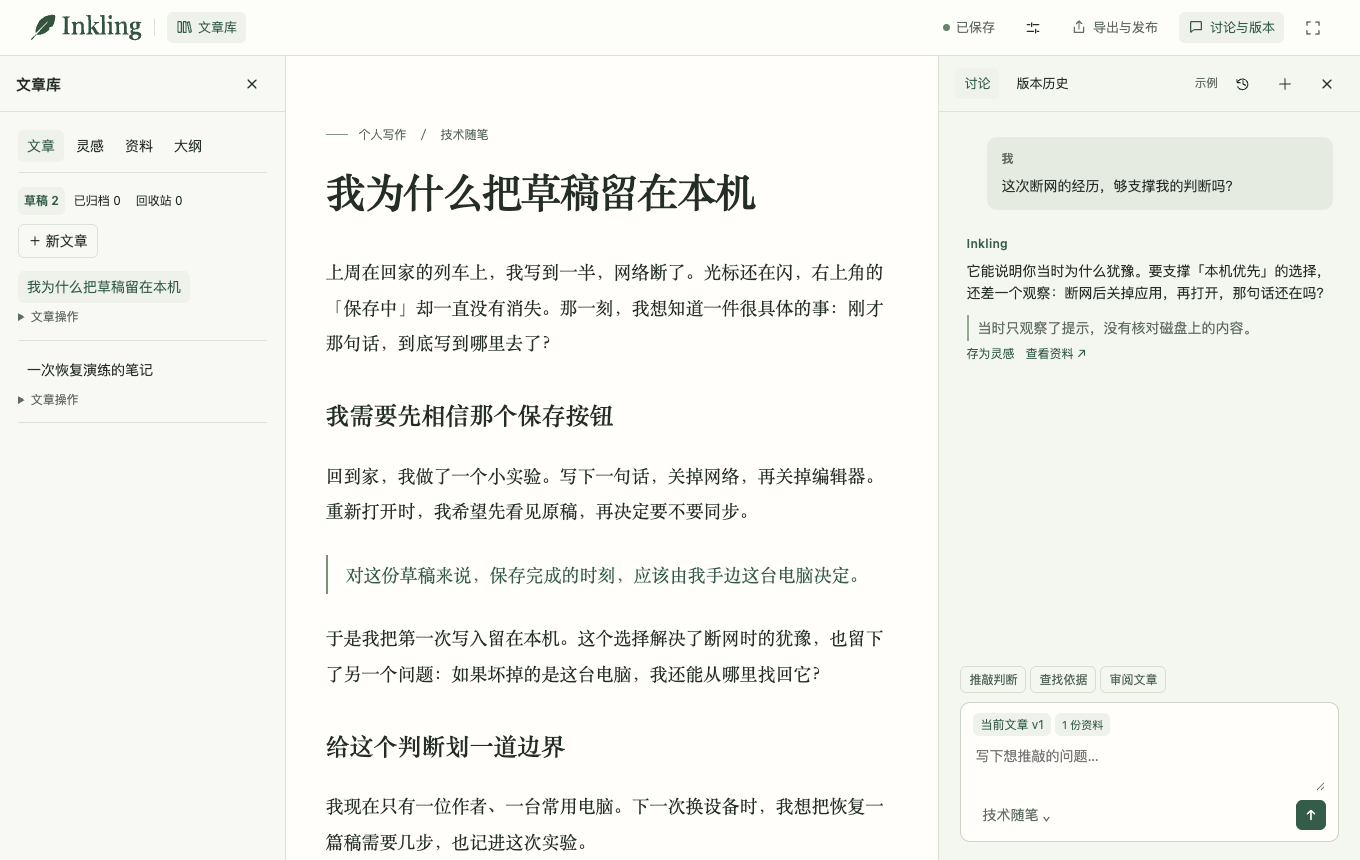
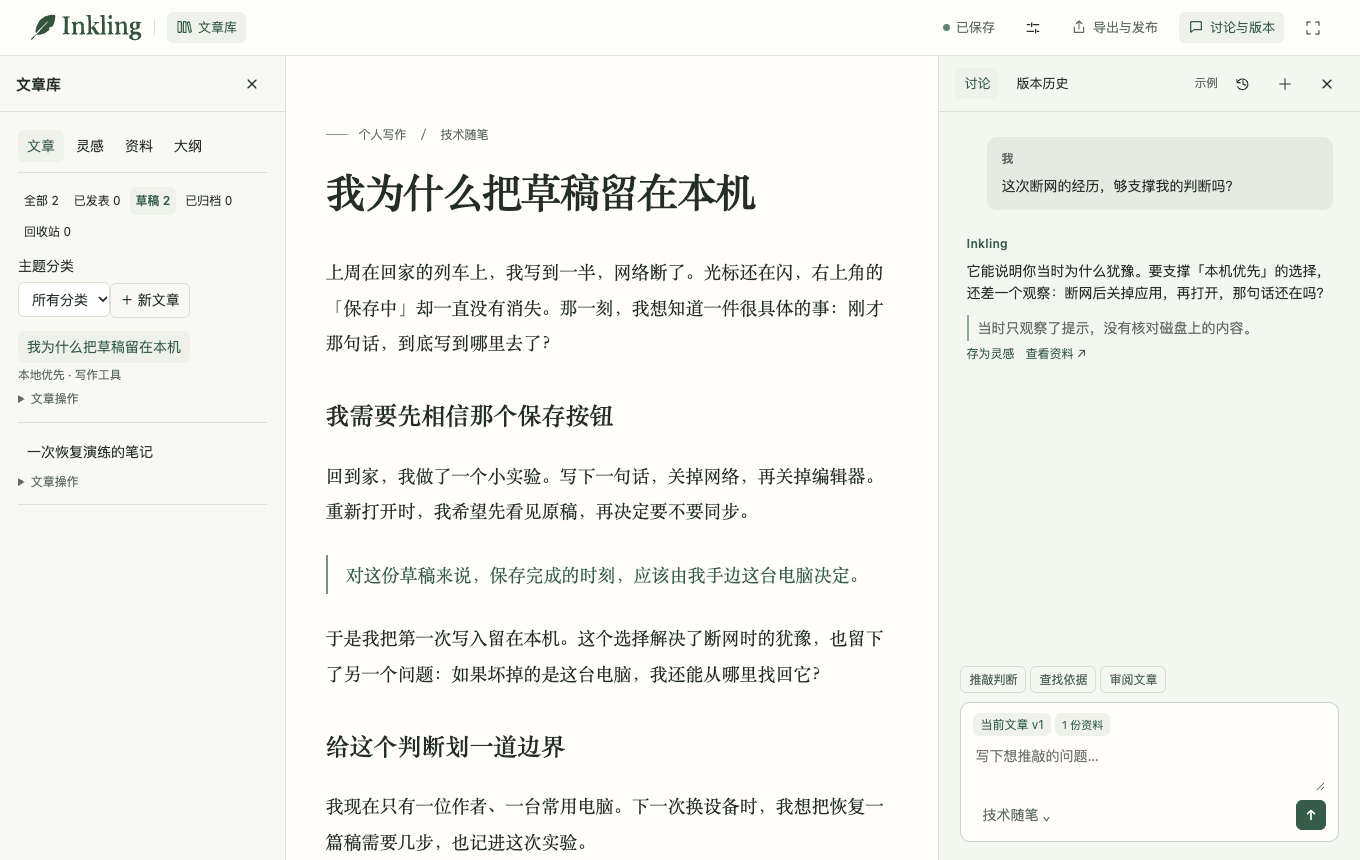
design: organize articles by topic, publication and writing intent

Changed region(s): [[0.0, 0.2116, 0.1544, 0.4837], [0.0618, 0.2116, 0.1853, 0.2419], [0.0309, 0.514, 0.1235, 0.5744]]

diff --git a/docs/prototypes/inkling-writing-desk-v3.html b/docs/prototypes/inkling-writing-desk-v3.html
@@ -894,6 +894,7 @@
           rev: 1,
           style: '技术随笔',
           status: 'active',
+          topics: [],
           attached: [],
           versions: [],
           chats: [discussion()],
@@ -928,6 +929,7 @@
           title: '列车上的断网记录',
           text: '作者笔记 · 断网后界面持续显示「保存中」。当时只观察了提示，没有核对磁盘上的内容。',
         };
+        a.topics = ['本地优先', '写作工具'];
         a.attached = [source.id];
         a.chats = [
           discussion([
@@ -969,6 +971,7 @@
         findBlock = (key) => a().blocks.find((x) => x.id === key);
       let tab = '文章',
         folder = a().status,
+        topic = '',
         shelfResult = '',
         selected = null,
         toolTarget = null,
@@ -1030,6 +1033,10 @@
           '[data-do="open"][data-key="' + a().id + '"]',
         );
         if (entry) entry.textContent = a().title || '未命名文章';
+        const summary = $('libraryBody').querySelector(
+          '[data-summary="' + a().id + '"]',
+        );
+        if (summary) summary.textContent = articleSummary(a());
         $('genre').textContent = a().style;
         $('stylechip').textContent = a().style + ' ⌄';
         $('count').textContent = n + ' 字';
@@ -1056,12 +1063,17 @@
             title = esc(art.title || '未命名文章');
           $('shelfSheet').innerHTML =
             '<div class="crumb"><i></i>' +
-            (archived ? '已归档 · 只读' : '回收站') +
+            (archived
+              ? art.parked
+                ? '已搁置 · 只读'
+                : '已归档 · 只读'
+              : '回收站') +
             '</div><h1>' +
             title +
             '</h1>' +
             (archived
-              ? btn('archive', '移回草稿，继续编辑', art.id) +
+              ? (art.parked ? '<p>搁置原因：' + esc(art.parked) + '</p>' : '') +
+                btn('archive', '移回草稿，继续编辑', art.id) +
                 '<hr>' +
                 art.blocks
                   .map(
@@ -1475,6 +1487,22 @@
         )
           closePanel();
       });
+      function articleSummary(x) {
+        const publication = x.published
+          ? '已发表 v' +
+            x.published +
+            (x.rev !== x.published ? ' · 有本地修改' : '')
+          : '';
+        return [...(x.topics || []), publication, x.parked ? '已搁置' : '']
+          .filter(Boolean)
+          .join(' · ');
+      }
+      function inCollection(x, view) {
+        if (view === 'all') return x.status !== 'trash';
+        if (view === 'published')
+          return x.status !== 'trash' && x.published != null;
+        return x.status === view;
+      }
       function library(next = tab, highlight = '') {
         tab = next;
         const tabs =
@@ -1490,6 +1518,8 @@
           '</nav>';
         if (tab === '文章') {
           const shelves = {
+            all: '全部',
+            published: '已发表',
             active: '草稿',
             archived: '已归档',
             trash: '回收站',
@@ -1506,18 +1536,44 @@
                   '">' +
                   label +
                   ' ' +
-                  store.articles.filter((x) => x.status === value).length +
+                  store.articles.filter(
+                    (x) =>
+                      inCollection(x, value) &&
+                      (!topic || x.topics?.includes(topic)),
+                  ).length +
                   '</button>',
               )
               .join('') +
             '</nav>';
+          const topics = [
+            ...new Set(store.articles.flatMap((x) => x.topics || [])),
+          ].sort((x, y) => x.localeCompare(y, 'zh-CN'));
+          html +=
+            '<label for="topicFilter">主题分类</label><select id="topicFilter"><option value="">所有分类</option>' +
+            topics
+              .map(
+                (t) =>
+                  '<option value="' +
+                  esc(t) +
+                  '" ' +
+                  (t === topic ? 'selected' : '') +
+                  '>' +
+                  esc(t) +
+                  '</option>',
+              )
+              .join('') +
+            '</select>';
           if (shelfResult)
             html +=
               '<p class="shelf-result" role="status">' +
               esc(shelfResult) +
               '</p>';
-          if (folder === 'active') html += btn('create', '＋ 新文章');
-          const list = store.articles.filter((x) => x.status === folder);
+          if (folder === 'all' || folder === 'active')
+            html += btn('create', '＋ 新文章');
+          const list = store.articles.filter(
+            (x) =>
+              inCollection(x, folder) && (!topic || x.topics?.includes(topic)),
+          );
           for (const x of list) {
             html +=
               '<div class="item"><div class="row">' +
@@ -1538,16 +1594,26 @@
                 'text-btn',
               );
             } else {
-              if (folder === 'archived')
+              html +=
+                '<div><small data-summary="' +
+                x.id +
+                '">' +
+                esc(articleSummary(x)) +
+                '</small></div>';
+              if (x.status === 'archived')
                 html +=
                   '<small>只读 · ' + x.versions.length + ' 个版本</small>';
               html +=
                 '<details><summary>文章操作</summary><div class="actions">' +
                 btn(
                   'archive',
-                  folder === 'active' ? '归档留存' : '移回草稿',
+                  x.status === 'active' ? '归档留存' : '移回草稿',
                   x.id,
                 ) +
+                (x.status === 'active'
+                  ? btn('park', '暂时搁置', x.id) +
+                    btn('topics', '设置分类', x.id)
+                  : '') +
                 btn('trash', '移入回收站', x.id) +
                 '</div></details>';
             }
@@ -1556,11 +1622,15 @@
           if (!list.length)
             html +=
               '<p class="muted">' +
-              {
-                active: '还没有草稿。',
-                archived: '归档的文章会保留在这里，供以后查阅。',
-                trash: '回收站是空的。',
-              }[folder] +
+              (topic
+                ? '当前视图没有这个分类的文章。'
+                : {
+                    all: '还没有文章。',
+                    published: '还没有已发表的文章。',
+                    active: '还没有草稿。',
+                    archived: '归档的文章会保留在这里，供以后查阅。',
+                    trash: '回收站是空的。',
+                  }[folder]) +
               '</p>';
         } else if (tab === '灵感') {
           html +=
@@ -1657,6 +1727,7 @@
           x.beforeTrash = x.status;
           x.status = 'trash';
         } else x.status = x.status === 'archived' ? 'active' : 'archived';
+        if (x.status === 'active') delete x.parked;
         folder = x.status;
         shelfResult =
           '「' +
@@ -1823,6 +1894,12 @@
       }
       document.addEventListener('change', (e) => {
         const el = e.target;
+        if (el.id === 'topicFilter') {
+          topic = el.value;
+          shelfResult = '';
+          library('文章');
+          return;
+        }
         if (el.dataset.src) {
           const key = el.dataset.src;
           a().attached = el.checked
@@ -1882,6 +1959,7 @@
             break;
           case 'create': {
             folder = 'active';
+            topic = '';
             shelfResult = '';
             const x = article('未命名文章', [block()]);
             store.articles.unshift(x);
@@ -1892,6 +1970,49 @@
           case 'open':
             switchTo(store.articles.find((x) => x.id === key));
             break;
+          case 'topics': {
+            const x = store.articles.find((x) => x.id === key);
+            panel(
+              'topics',
+              '设置主题分类',
+              '<label for="topicsInput">每行一个分类</label><textarea id="topicsInput">' +
+                esc((x.topics || []).join('\n')) +
+                '</textarea>' +
+                btn('saveTopics', '保存分类', key, 'primary'),
+            );
+            break;
+          }
+          case 'saveTopics': {
+            const x = store.articles.find((x) => x.id === key);
+            x.topics = [
+              ...new Set(
+                $('topicsInput')
+                  .value.split('\n')
+                  .map((t) => t.trim().normalize('NFC'))
+                  .filter(Boolean),
+              ),
+            ];
+            if (topic && !x.topics.includes(topic)) topic = '';
+            persist();
+            library('文章');
+            break;
+          }
+          case 'park': {
+            panel(
+              'park',
+              '暂时搁置',
+              '<p>原稿会保留在「已归档」，以后可以移回草稿。</p><label for="parkReason">什么条件值得再写？（可选）</label><textarea id="parkReason" placeholder="例如：再有一次可复现的恢复实验"></textarea>' +
+                btn('confirmPark', '搁置并保留原稿', key, 'primary') +
+                btn('close', '取消'),
+            );
+            break;
+          }
+          case 'confirmPark': {
+            const x = store.articles.find((x) => x.id === key);
+            x.parked = $('parkReason').value.trim() || '暂缓写作';
+            articleAction(x, 'archive');
+            break;
+          }
           case 'archive':
           case 'recover':
             articleAction(
@@ -2148,6 +2269,7 @@
             if ($('confirm').checked && art.rev === Number(key)) {
               art.published = art.rev;
               persist();
+              if (libraryOpen && tab === '文章') library(tab);
               exportPanel();
             }
             break;

diff --git a/docs/prototypes/README.md b/docs/prototypes/README.md
@@ -21,6 +21,10 @@
 
 在文章库的「文章」页签中，「草稿」「已归档」「回收站」显示各自的篇数。归档适合暂时写完、以后仍要参考的稿件：归档后可只读查看正文及历史，点「移回草稿」继续写。移入回收站需要确认，随后可以恢复到移入前的位置。操作后列表会切到目的地，保留文章标题和恢复入口。
 
+**从一个问题到一篇文章。** 灵感记录作者想弄明白的问题，资料保存可追溯的观察、摘录或反例。二者都可以先独立存在，一份资料也可以被多篇文章引用。决定围绕某个问题展开时再建文章。大纲属于这篇文章，是当下组织论证的方式；可以先有大纲，也可以从已写的段落整理出大纲。写作过程中可随时返回灵感、资料和大纲。
+
+**写完、写不下去与按主题回顾。** 「已发表」汇集有模拟发布记录的稿件，标明已发版本；本地再改会显示还有新修改。还要维护就继续编辑，需要长期留存就归档，两个视图引用同一篇文章。「暂时搁置」适合价值尚不明朗的半成稿；可记下什么条件值得再写，原稿收入「已归档」，移回草稿即可继续。「文章操作 → 设置分类」支持一篇活动稿多个主题。选择「全部」和「主题分类」可跨草稿和归档查看，选择「已发表」可单看该主题的已发作品；回收站单独查看。文类（技术随笔、教程等）仍用于风格。以上新增交互属于设计原型。
+
 顶栏「文章库」在 Logo 下方展开左栏，再点一次收起。桌面宽屏允许文章库、稿纸和讨论并排。顶栏「讨论与版本」控制右栏，栏内可切换「讨论」和「版本历史」；讨论历史也在原栏中打开，返回后保留未发送的问题。窄屏优先展示最近打开的一栏，顶栏持续可用。风格、发布和操作确认使用对话框。[查看展开文章库的布局](inkling-writing-desk-v3-library.png)。原型是单个 HTML，包含样式、脚本和项目标识，可直接在本机浏览器打开。演示数据保存在该浏览器的本地存储，存储不可用时状态改为「仅本页」。讨论、研究和发布用样例演示，正式产品行为见 Living Spec。
 
 在 Chromium 验证了段落引用、候选手改与过期保护、版本恢复、文章切换与刷新保留、资料勾选、记忆确认与撤回、发布确认、讨论中止与历史、专注及窄屏切换。检查了 320、375、768、1024、1360 像素宽度。以上是设计原型验证，C03 的真实输入法验收仍单独记录。
